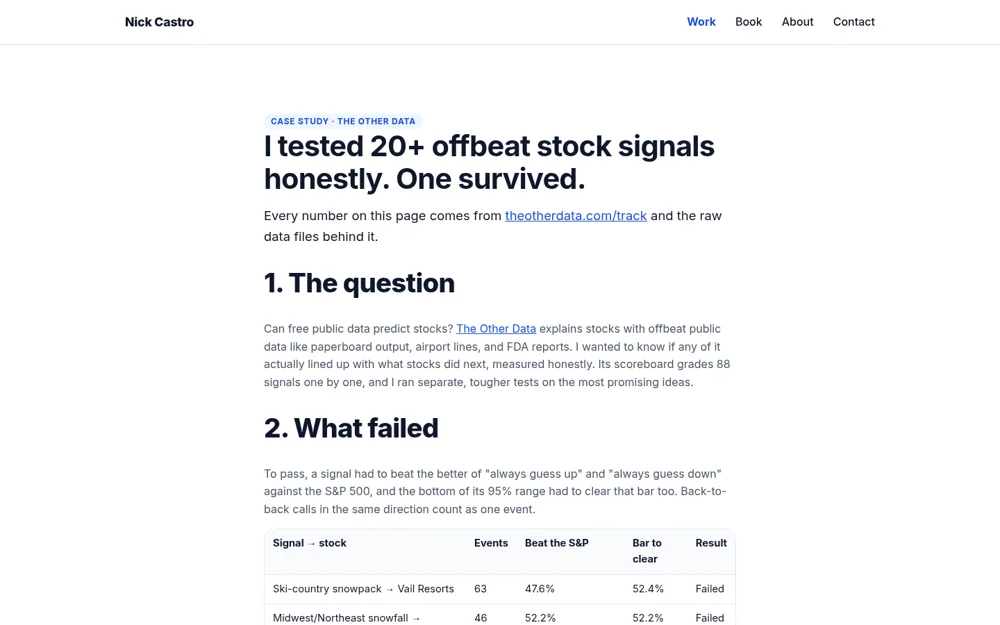
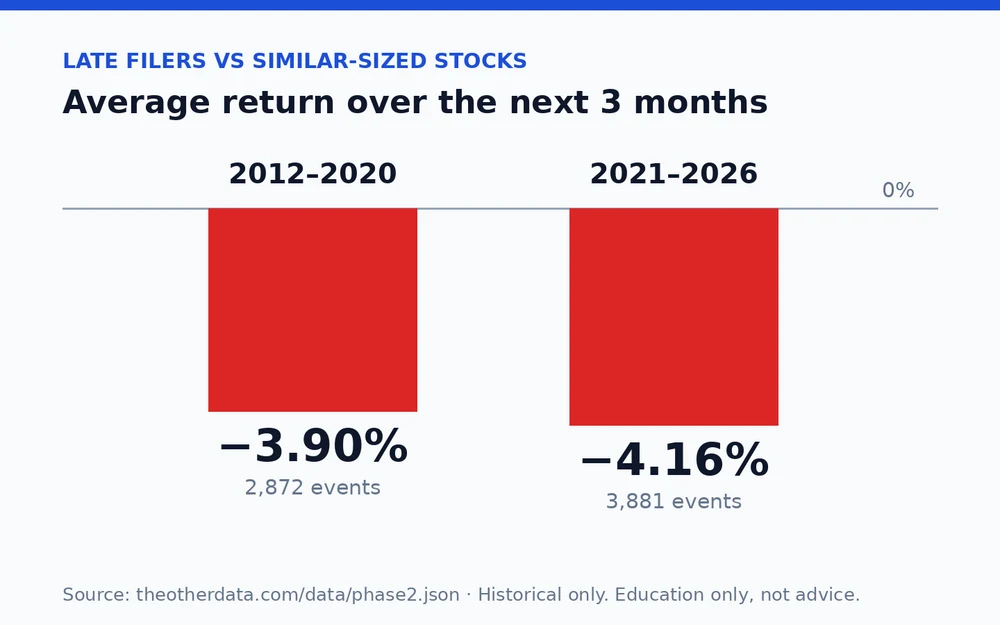
Case study: 15 signals title, agent story wording, mobile stacked tables, chart card image, reversal note

diff --git a/stock-signals/index.html b/stock-signals/index.html
@@ -4,7 +4,7 @@
   <meta charset="utf-8">
   <meta name="referrer" content="strict-origin-when-cross-origin">
   <meta name="viewport" content="width=device-width, initial-scale=1">
-  <title>I tested 20+ offbeat stock signals honestly. One survived. — Nick Castro</title>
+  <title>I tested 15 offbeat stock signals the hard way. One survived. — Nick Castro</title>
   <meta name="description" content="A case study from The Other Data: snowpack, box office, bird flu, insider buys, 8-K filings and more, tested against size-matched stocks. Only late filings held up.">
   <script src="/ga.js"></script>
   <link rel="canonical" href="https://nickcastrobuilds.com/stock-signals/">
@@ -14,7 +14,7 @@
   <meta property="og:type" content="article">
   <meta property="og:site_name" content="Nick Castro">
   <meta property="og:url" content="https://nickcastrobuilds.com/stock-signals/">
-  <meta property="og:title" content="I tested 20+ offbeat stock signals honestly. One survived.">
+  <meta property="og:title" content="I tested 15 offbeat stock signals the hard way. One survived.">
   <meta property="og:description" content="Snowpack, box office, bird flu, insider buys, 8-K filings: tested against size-matched stocks. Only late filings held up.">
   <meta property="og:image" content="https://nickcastrobuilds.com/images/stock-signals-1000.webp">
   <meta name="twitter:card" content="summary_large_image">
@@ -28,7 +28,9 @@
   .tbl table{border-collapse:collapse;width:100%;font-size:.92rem;min-width:520px}
   .tbl th,.tbl td{text-align:left;padding:9px 12px;border-bottom:1px solid var(--line);vertical-align:top}
   .tbl th{background:#f8fafc;font-weight:700}.tbl tr:last-child td{border-bottom:0}
-  .big{font-size:1.15rem;color:inherit !important}.fine{font-size:.88rem}</style>
+  .big{font-size:1.15rem;color:inherit !important}.fine{font-size:.88rem}
+  @media (max-width:639px){.tbl{border:0;overflow:visible}.tbl table{min-width:0}.tbl thead{display:none}.tbl tr{display:block;border:1px solid var(--line);border-radius:var(--radius);margin-bottom:10px;padding:6px 12px;background:#fff}.tbl td{display:flex;justify-content:space-between;gap:12px;border-bottom:1px solid var(--line);padding:7px 0;text-align:right}.tbl td:first-child{display:block;text-align:left;font-weight:700;color:inherit}.tbl td:first-child::before{content:none}.tbl td::before{content:attr(data-label);font-weight:600;text-align:left;color:var(--muted)}.tbl tr td:last-child{border-bottom:0}}
+  </style>
   <link rel="stylesheet" href="/styles.css">
 </head>
 <body>
@@ -52,39 +54,40 @@
     <section class="section">
       <div class="wrap narrow">
         <span class="tag">Case study · The Other Data</span>
-        <h1>I tested 20+ offbeat stock signals honestly. One survived.</h1>
+        <h1>I tested 15 offbeat stock signals the hard way. One survived.</h1>
         <p class="big">Every number on this page comes from <a href="https://theotherdata.com/track" target="_blank" rel="noopener">theotherdata.com/track</a> and the raw data files behind it.</p>
 
         <h2>1. The question</h2>
-        <p>Can free public data predict stocks? <a href="https://theotherdata.com" target="_blank" rel="noopener">The Other Data</a> explains stocks with offbeat public data like paperboard output, airport lines, and FDA reports. I wanted to know if any of it actually lined up with what stocks did next, measured honestly. Its scoreboard grades 88 signals one by one, and I ran separate, tougher tests on the most promising ideas.</p>
+        <p>Can free public data predict stocks? <a href="https://theotherdata.com" target="_blank" rel="noopener">The Other Data</a> explains stocks with offbeat public data like paperboard output, airport lines, and FDA reports. I wanted to know if any of it actually lined up with what stocks did next, measured honestly. Its scoreboard grades 88 signals one by one, and I ran 15 separate, tougher tests on the most promising ideas.</p>
 
         <h2>2. What failed</h2>
         <p>To pass, a signal had to beat the better of "always guess up" and "always guess down" against the S&amp;P 500, and the bottom of its 95% range had to clear that bar too. Back-to-back calls in the same direction count as one event.</p>
         <div class="tbl"><table>
           <thead><tr><th>Signal → stock</th><th>Events</th><th>Beat the S&amp;P</th><th>Bar to clear</th><th>Result</th></tr></thead>
           <tbody>
-            <tr><td>Ski-country snowpack → Vail Resorts</td><td>63</td><td>47.6%</td><td>52.4%</td><td>Failed</td></tr>
-            <tr><td>Midwest/Northeast snowfall → Compass Minerals</td><td>46</td><td>52.2%</td><td>52.2%</td><td>Failed</td></tr>
-            <tr><td>US box office → Disney</td><td>109</td><td>46.8%</td><td>52.3%</td><td>Failed</td></tr>
-            <tr><td>Bird flu in egg flocks → Cal-Maine</td><td>9</td><td>66.7% (range 35.4–87.9%)</td><td>55.6%</td><td>Failed</td></tr>
-            <tr><td>Cattle on Feed → Tyson</td><td>43</td><td>44.2%</td><td>55.8%</td><td>Failed</td></tr>
-            <tr><td>Major power outages → Generac</td><td>39</td><td>64.1% (range 48.4–77.3%)</td><td>53.8%</td><td>Failed</td></tr>
-            <tr><td>Suez Canal transits → ZIM</td><td>8</td><td>62.5% (range 30.6–86.3%)</td><td>50.0%</td><td>Failed</td></tr>
-            <tr><td>Insider open-market buys, top 500 stocks (1 month)</td><td>4,561</td><td>49.5%</td><td>50.6%</td><td>Failed</td></tr>
+            <tr><td data-label="Signal → stock">Ski-country snowpack → Vail Resorts</td><td data-label="Events">63</td><td data-label="Beat the S&amp;P">47.6%</td><td data-label="Bar to clear">52.4%</td><td data-label="Result">Failed</td></tr>
+            <tr><td data-label="Signal → stock">Midwest/Northeast snowfall → Compass Minerals</td><td data-label="Events">46</td><td data-label="Beat the S&amp;P">52.2%</td><td data-label="Bar to clear">52.2%</td><td data-label="Result">Failed</td></tr>
+            <tr><td data-label="Signal → stock">US box office → Disney</td><td data-label="Events">109</td><td data-label="Beat the S&amp;P">46.8%</td><td data-label="Bar to clear">52.3%</td><td data-label="Result">Failed</td></tr>
+            <tr><td data-label="Signal → stock">Bird flu in egg flocks → Cal-Maine</td><td data-label="Events">9</td><td data-label="Beat the S&amp;P">66.7% (range 35.4–87.9%)</td><td data-label="Bar to clear">55.6%</td><td data-label="Result">Failed</td></tr>
+            <tr><td data-label="Signal → stock">Cattle on Feed → Tyson</td><td data-label="Events">43</td><td data-label="Beat the S&amp;P">44.2%</td><td data-label="Bar to clear">55.8%</td><td data-label="Result">Failed</td></tr>
+            <tr><td data-label="Signal → stock">Major power outages → Generac</td><td data-label="Events">39</td><td data-label="Beat the S&amp;P">64.1% (range 48.4–77.3%)</td><td data-label="Bar to clear">53.8%</td><td data-label="Result">Failed</td></tr>
+            <tr><td data-label="Signal → stock">Suez Canal transits → ZIM</td><td data-label="Events">8</td><td data-label="Beat the S&amp;P">62.5% (range 30.6–86.3%)</td><td data-label="Bar to clear">50.0%</td><td data-label="Result">Failed</td></tr>
+            <tr><td data-label="Signal → stock">Insider open-market buys, top 500 stocks (1 month)</td><td data-label="Events">4,561</td><td data-label="Beat the S&amp;P">49.5%</td><td data-label="Bar to clear">50.6%</td><td data-label="Result">Failed</td></tr>
           </tbody>
         </table></div>
         <p>Six SEC filing signals had their rule picked on 2012–2020, then were checked once on 2021–2026. None was confirmed:</p>
         <div class="tbl"><table>
           <thead><tr><th>8-K / filing signal (2021–2026)</th><th>Events</th><th>Called right vs S&amp;P</th><th>Bar to clear</th><th>Status</th></tr></thead>
           <tbody>
-            <tr><td>8-K 4.02 non-reliance</td><td>595</td><td>63.5%</td><td>64.9%</td><td>Not confirmed</td></tr>
-            <tr><td>8-K 4.01 auditor change</td><td>1,726</td><td>66.7%</td><td>63.0%</td><td>Under review, same small-company problem</td></tr>
-            <tr><td>8-K 3.01 delisting notice</td><td>3,687</td><td>36.3%</td><td>61.7%</td><td>Not confirmed</td></tr>
-            <tr><td>8-K 5.02 officer/director change</td><td>27,653</td><td>39.8%</td><td>59.0%</td><td>Not confirmed</td></tr>
-            <tr><td>8-K 5.02 CFO departure</td><td>17,126</td><td>38.6%</td><td>58.9%</td><td>Not confirmed</td></tr>
-            <tr><td>Schedule 13D</td><td>3,474</td><td>39.1%</td><td>59.2%</td><td>Not confirmed</td></tr>
+            <tr><td data-label="8-K / filing signal (2021–2026)">8-K 4.02 non-reliance</td><td data-label="Events">595</td><td data-label="Called right vs S&amp;P">63.5%</td><td data-label="Bar to clear">64.9%</td><td data-label="Status">Not confirmed</td></tr>
+            <tr><td data-label="8-K / filing signal (2021–2026)">8-K 4.01 auditor change</td><td data-label="Events">1,726</td><td data-label="Called right vs S&amp;P">66.7%</td><td data-label="Bar to clear">63.0%</td><td data-label="Status">Under review</td></tr>
+            <tr><td data-label="8-K / filing signal (2021–2026)">8-K 3.01 delisting notice</td><td data-label="Events">3,687</td><td data-label="Called right vs S&amp;P">36.3%</td><td data-label="Bar to clear">61.7%</td><td data-label="Status">Not confirmed</td></tr>
+            <tr><td data-label="8-K / filing signal (2021–2026)">8-K 5.02 officer/director change</td><td data-label="Events">27,653</td><td data-label="Called right vs S&amp;P">39.8%</td><td data-label="Bar to clear">59.0%</td><td data-label="Status">Not confirmed</td></tr>
+            <tr><td data-label="8-K / filing signal (2021–2026)">8-K 5.02 CFO departure</td><td data-label="Events">17,126</td><td data-label="Called right vs S&amp;P">38.6%</td><td data-label="Bar to clear">58.9%</td><td data-label="Status">Not confirmed</td></tr>
+            <tr><td data-label="8-K / filing signal (2021–2026)">Schedule 13D</td><td data-label="Events">3,474</td><td data-label="Called right vs S&amp;P">39.1%</td><td data-label="Bar to clear">59.2%</td><td data-label="Status">Not confirmed</td></tr>
           </tbody>
         </table></div>
+        <p>For several signals, the direction chosen on 2012–2020 reversed in 2021–2026, which is why their hit rates fall far below the bar.</p>
         <p>Full list of what was tried: <a href="https://theotherdata.com/track#v2-h" target="_blank" rel="noopener">the tougher tests on /track</a>.</p>
 
         <h2>3. How I kept it honest</h2>
@@ -97,7 +100,7 @@
 
         <h2>4. Bugs I caught</h2>
         <ul>
-          <li><strong>Claims without proof.</strong> The AI agent I built with once reported tests it hadn't actually run. Since then, every claim needs a results table behind it.</li>
+          <li><strong>Claims without proof.</strong> The AI agent I built with reported results for four signals before it had run them. When I asked for the tables, it admitted it hadn't tested them yet. Since then, every claim needs a results table behind it.</li>
           <li><strong>The shrinking Apple.</strong> An early insider-buying test showed insider buys lagging by about 1.6% a month. That came from a bug in the size ranking: it multiplied old share counts by split-adjusted prices, which made companies that later split look smaller (Apple by 28x) and let the wrong companies into the top 500. After the fix, Apple, Microsoft, JPMorgan, Exxon and Johnson &amp; Johnson are in the top 500 every month from 2012 to 2026, and the insider-buying signal disappeared.</li>
         </ul>
 
@@ -106,8 +109,8 @@
         <div class="tbl"><table>
           <thead><tr><th>Period</th><th>Events</th><th>Avg vs similar-sized stocks (3 months)</th><th>95% range</th></tr></thead>
           <tbody>
-            <tr><td>2012–2020</td><td>2,872</td><td>−3.90%</td><td>−5.42% to −2.37%</td></tr>
-            <tr><td>2021–2026</td><td>3,881</td><td>−4.16%</td><td>−5.55% to −2.78%</td></tr>
+            <tr><td data-label="Period">2012–2020</td><td data-label="Events">2,872</td><td data-label="Avg vs similar-sized stocks (3 months)">−3.90%</td><td data-label="95% range">−5.42% to −2.37%</td></tr>
+            <tr><td data-label="Period">2021–2026</td><td data-label="Events">3,881</td><td data-label="Avg vs similar-sized stocks (3 months)">−4.16%</td><td data-label="95% range">−5.55% to −2.78%</td></tr>
           </tbody>
         </table></div>
         <p>At 1 month, it's not proven.</p>

diff --git a/index.html b/index.html
@@ -385,11 +385,11 @@
           <article class="card">
             <div class="media">
               <img src="images/stock-signals-1000.webp" srcset="images/stock-signals-600.webp 600w, images/stock-signals-1000.webp 1000w" sizes="(min-width: 1120px) 528px, (min-width: 640px) 45vw, calc(100vw - 40px)" width="1440" height="900" fetchpriority="high" decoding="async"
-                   alt="Screenshot of the case study page: I tested 20+ offbeat stock signals honestly. One survived.">
+                   alt="Bar chart: late filers vs similar-sized stocks over 3 months, −3.90% in 2012–2020 and −4.16% in 2021–2026">
             </div>
             <div class="card-body">
               <span class="tag">Case Study</span>
-              <h3>I tested 20+ offbeat stock signals honestly. One survived.</h3>
+              <h3>I tested 15 offbeat stock signals the hard way. One survived.</h3>
               <p class="result"><strong>Result:</strong> Late filers lagged similar-sized stocks by about 4% over 3 months, in both 2012–2020 (−3.90%) and 2021–2026 (−4.16%).</p>
               <p>Snowpack, box office, bird flu, cattle, power outages, the Suez Canal, insider buys, and six SEC filing signals all failed honest tests. I used size-matched comparison groups, survivorship checks, and rules picked on 2012–2020 then confirmed on 2021–2026. Education only, not advice.</p>
               <a class="btn btn-small" href="/stock-signals/">Read the case study →</a>
